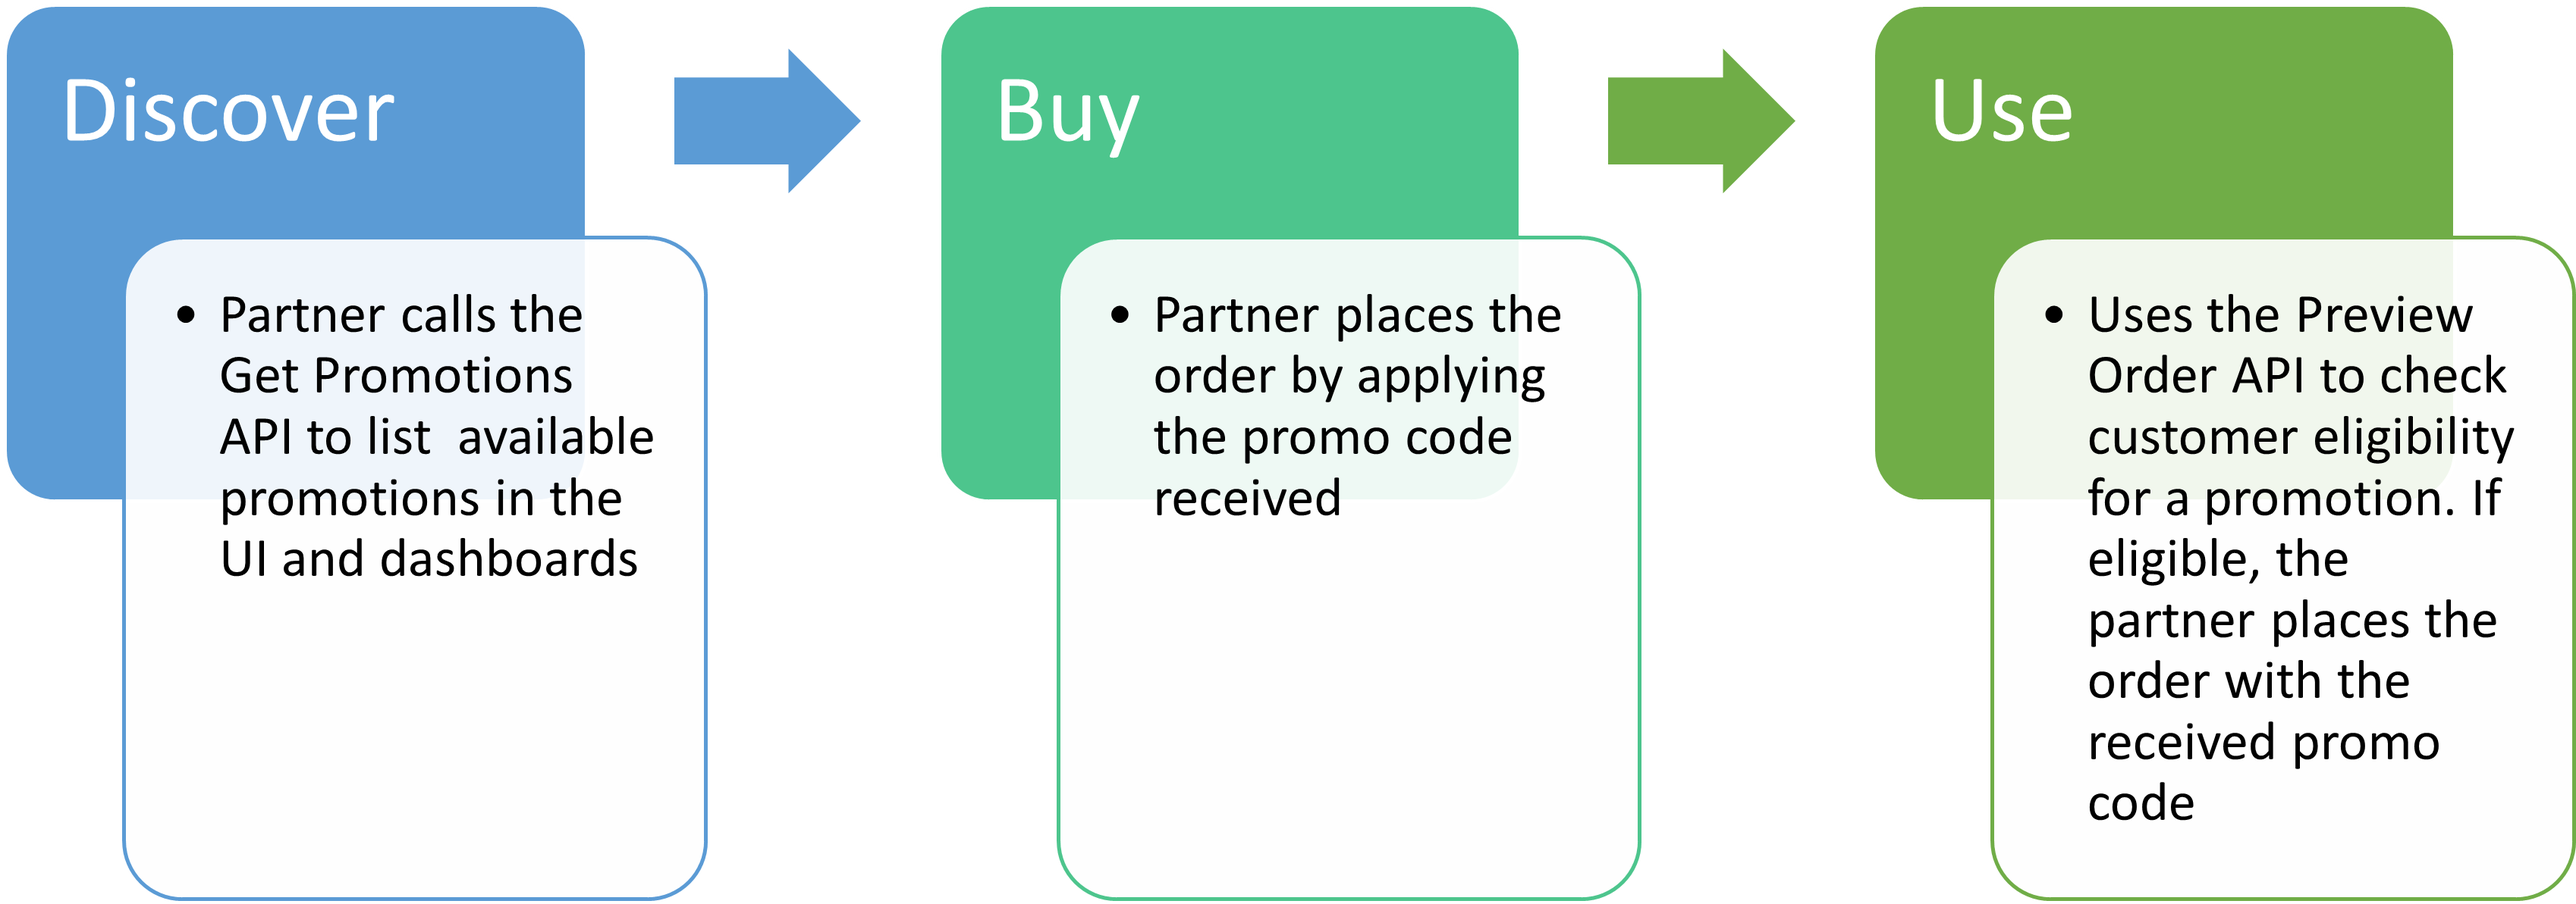
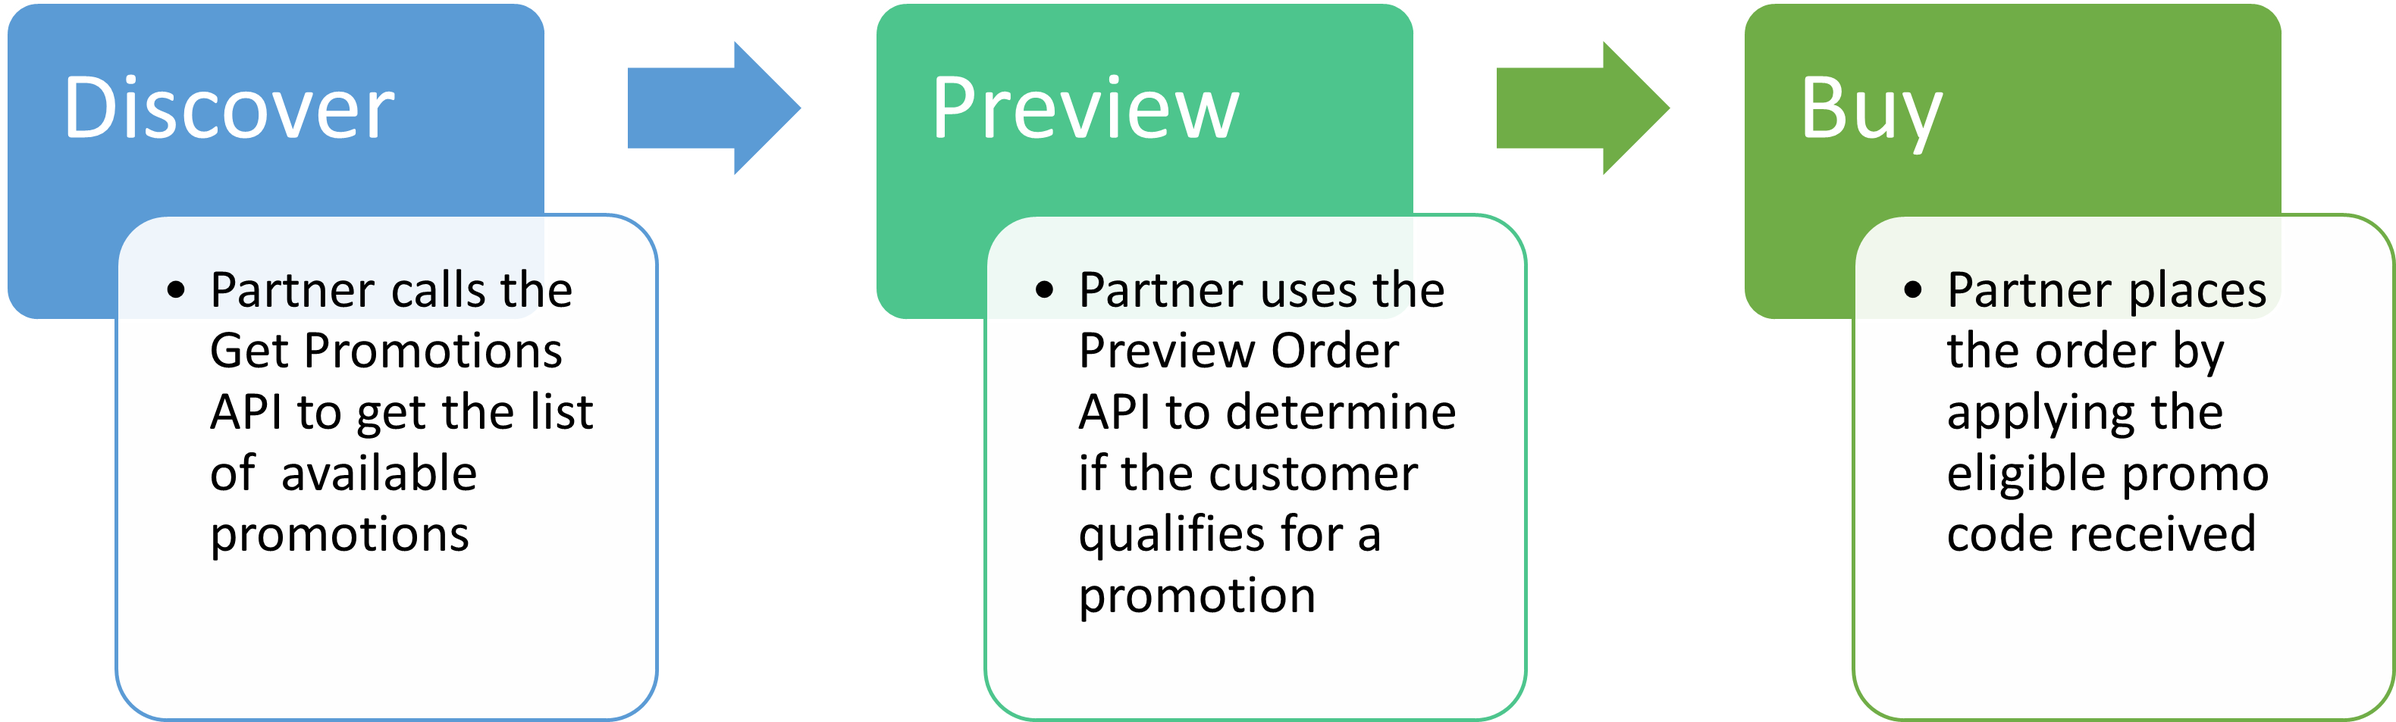
Flex promo updates based on Arch feedback.

diff --git a/src/pages/docs/flex_promo/apis.md b/src/pages/docs/flex_promo/apis.md
@@ -18,20 +18,20 @@ Use the `GET Promotions` API to fetch promotions applicable to a product:
 
 ### Request
 
-Sample Request URL: `GET <ENV>/v3/promotions?market-segment=COM&country=US&offer-ids=65322535CA04A12,86322535CA04A12&promo-code=BLACK_FRIDAY&start-date=2025-03-01&end-date=2025-03-31&limit=20&offset=0`
+Sample Request URL: `GET <ENV>/v3/promotions?market-segment=COM&country=US`
 
 ### Query parameters  
 
-**Note:** Request Query parameters such as Market segment and country will be validated against the Partner's contract data.
+**Note:** Request Query parameters such as Market segment and country will be validated against the Partner's contract data. You can also use other query parameters that are listed in the following table:
 
 | Parameter       | Type             | Mandatory | Description                                                                 | Range/Limits                                                                 |
 |-----------------|------------------|-----------|-----------------------------------------------------------------------------|------------------------------------------------------------------------------|
-| market-segment  | string           | Yes       | Filter promotions by market segment. Example: "COM", "EDU".                 |      3 characters                                                                        |
-| country         | string           | Yes       | Filter promotions by country using the ISO 3166-1 alpha-2 code. Example: "US", "IN". |         2 or 3 characters                                                                     |
+| market-segment  | string           | Yes       | Get promotions by market segment. Example: "COM", "EDU".                 |      3 characters                                                                        |
+| country         | string           | Yes       | Get promotions by country using the ISO 3166-1 alpha-2 code. Example: "US", "IN". |         2 or 3 characters                                                                     |
 | offer-ids       | array of strings | No        | Provide a comma-separated list of Offer IDs to retrieve applicable promotions. Example: 65322535CA04A12, 86322535CA04A12 |   Max: 40 characters                                                                           |
-| promo-code      | string           | No        | Filter promotions by code. Example: "DIWALI", "BLACK_FRIDAY"                |      Max: 40 characters                                                                        |
-| start-date      | string (date)    | No        | Specify the start date for searching for promotions. This date can be without timestamp or with timestamp in Zulu time format. For example, “2025-05-02" or "2025-05-02T22:49:54Z" |                                                                              |
-| end-date        | string (date)    | No        | Specify the end date for searching for promotions. This date can be without timestamp or with timestamp in Zulu time format. For example, “2025-05-02" or "2025-05-02T22:49:54Z" |                                                                              |
+| promo-code      | string           | No        | Filter promotions by promotion code. Example: "DIWALI", "BLACK_FRIDAY"                |      Max: 40 characters                                                                        |
+| start-date      | string (date)    | No        | Filter promotions created after a specified date. This date can be without timestamp or with timestamp in Zulu time format. For example, “2025-05-02" or "2025-05-02T22:49:54Z" |                                                                              |
+| end-date        | string (date)    | No        | Filter promotions that are created up to this date. This date can be without timestamp or with timestamp in Zulu time format. For example, “2025-05-02" or "2025-05-02T22:49:54Z" |                                                                              |
 | limit           | integer          |           | Define the number of items to be returned in the response. Default: 20, Max: 50. |                                                                              |
 | offset          | integer          |           | Set the start offset for the result items. Default: 0                        |                                                                              |
 
@@ -49,6 +49,8 @@ None.
 { 
   "limit": 20, 
   "offset": 0, 
+  "count": 1,
+  "totalCount": 1,
   "promotions": [ 
     { 
       "name": "Black Friday Promotion", 
@@ -111,8 +113,12 @@ None.
 
 | Parameter                       | Type             | Description                                                                 |
 |---------------------------------|------------------|-----------------------------------------------------------------------------|
-| name                            | String           | Name of the Promotion                                                       |
-| description                     | String           | Description of the Promotion                                                |
+| limit                            | String           |  Number of items to be included in the current response.                 |
+| offset                            | 	String |Offset applied for the current response.                                                 |
+| count                            | String           | The count of promotion entities included in the current response.                                                       |
+| totalCount                            | String           |   Total count of promotion entities, if no limit was applied.                                                   |
+| name                            | String           | Name of the Promotion.                                                       |
+| description                     | String           | Description of the Promotion. It also provides additional details about the eligibility criteria for the promotion. For example, "Exclusive 20% off for Teams customers of CC All Apps in US"                                               |
 | code                            | String           | The code that needs to be used in the order and will reflect in the invoice. It will be unique across promotions. |
 | endDate                         | String (Date)    | Final date when the Promotion can be used                                   |
 | startDate                       | String (Date)    | First date when the Promotion can be used                                   |
@@ -181,6 +187,8 @@ The following sample request shows how to apply a promotion code to a Create Ord
    ] 
  } 
  ```
+
+The `promotionCodes` parameter in the above request indicates the promotion codes applied to the Order.
 
 ### Response
 
@@ -299,7 +307,7 @@ None.
          ] 
     } 
    ],  "links": { // As existing response fields } 
- } 
+ },
 ```
 
 ### HTTP Status Codes

diff --git a/src/pages/docs/references/error_handling.md b/src/pages/docs/references/error_handling.md
@@ -84,6 +84,9 @@ Some error responses will include additionalDetails, an array of strings with mo
 |2138 | Invalid Deployment | Create Order |404|
 |2139| Deployment not allowed for this contract |Create Order | 400|
 |2140| Order contains order level currency and line-item level currency |Create Order | 400|
+| 2141       | Customer is not qualified for the promotion. <br /> Aadditional details: [ "Line Item: 1, Reason: MARKET_SEGMENT_MISMATCH" ]                                                                 |    Create Order <br /> Preview Order                  |    400              |
+| 2144       | Promo code cannot be applied in combination with other discounts. <br /> Aadditional details: [ "Line Item: 1, Reason: Promo code cannot be applied in combination with other discounts" ] |       Create Order <br /> Preview Order               |  400                |
+| 2145       | Promotional codes cannot be applied to non-base products.   <br /> Aadditional details: [ "Line Item: 1, Reason: Promotional codes cannot be applied to non-base products" ]                 |    Create Order <br /> Preview Order                  |    400              |
 |3115 | Invalid Customer or Subscription ID| Get Subscription Details, Update Subscription Auto-Renewal| 404|
 |3116 | renewalQuantity out of range |Update Subscription Auto-Renewal| 400|
 |3117 | currentQuantity out of range | | 400|
@@ -119,6 +122,8 @@ Some error responses will include additionalDetails, an array of strings with mo
 |5133| Order cancellation not allowed below MOQ quantity| |400 <br /> Description: When the customer is trying to cancel the MOQ offer quantity that results in pushing the remaining qty below the MOQ offer quantity.|
 |5134| Could not turn off Auto Renewal for MOQ offer| |400 <br /> Description: When the customer is trying to turn off autorenewal for an MOQ offer.|
 |5135| Invalid Discount Code|Create Order | 400|
+|5136 |INVALID_COUNTRY <br /> <br />Not allowed to fetch Recommendations for Country  `<code>` |Fetch Recommendations <br />Get Order <br />Preview Order |400 |
+|5137|INVALID_LANGUAGE <br /> <br />Not allowed to fetch Recommendations for language `<Code>` |Fetch Recommendations <br />Get Order <br />Preview Order | 400 |
 
 ## 2129 Ineligible Purchase REASON_CODE List
 
@@ -148,16 +153,23 @@ These REASON_CODE values are included in the `additionalDetails` array for 5117 
 |NO_TARGET_SKU| Customer has product(s) that are not valid VIPMP product(s)| Wait for products to be supported in VIPMP.|
 |UNBILLED_ORDER| Customer has unbilled order items| Customer must pay for all orders. If they have not received an invoice, then the customer needs to contact Adobe.|
 |UNPAID_INVOICE| Customer has open/unpaid invoice(s) |Customer must pay for open invoice(s).|
-|LINK_MEMBERSHIP_CHECK| Customer is part of linked membership |Wait for the Linked Membership transfer capability to be supported|
-|HAS_UNPROCESSED_ORDERS| There is some internal issue for the customer |Please reach out to support for assistance|
+|LINK_MEMBERSHIP_CHECK| Customer is part of linked membership |Wait for the Linked Membership transfer capability to be supported.|
+|HAS_UNPROCESSED_ORDERS| There is some internal issue for the customer |Reach out to support for assistance.|
 |NOT_A_FULL_RENEWAL_IN_RENEWAL_WINDOW| The customer is in the renewal window prior to their anniversary date, and they have partially renewed.| Customer must either renew all active licenses or wait until their anniversary date.|
-|LICENSE_WITHOUT_SALE_AQO_REFERENCED| There is some internal issue for the customer |Please reach out to support for assistance |
-|SRC_DST_OFFER_IDS_HAS_PA_MISMATCH| There is some internal issue for the customer |Please reach out to support for assistance|
-|3YC_LINKED_MEMBERSHIP | Customer is part of linked membership and has active 3YC. |Please reach out to support for assistance|
-|HVD_CUSTOMER| Customer is not eligible for transfer. |Please reach out to support for assistance|
-|INVALID_PRICE_LEVEL_LM_MIGRATION | Customer’s Price Level is greater than 04 and has Linked Membership. |Please reach out to support for assistance|
+|LICENSE_WITHOUT_SALE_AQO_REFERENCED| There is some internal issue for the customer |Reach out to support for assistance. |
+|SRC_DST_OFFER_IDS_HAS_PA_MISMATCH| There is some internal issue for the customer |Reach out to support for assistance.|
+|3YC_LINKED_MEMBERSHIP | Customer is part of linked membership and has active 3YC. |Reach out to support for assistance.|
+|HVD_CUSTOMER| Customer is not eligible for transfer. |Reach out to support for assistance.|
+|INVALID_PRICE_LEVEL_LM_MIGRATION | Customer’s Price Level is greater than 04 and has Linked Membership. |Reach out to support for assistance.|
 |LM_OWNER_NOT_MIGRATED | Group member is trying to migrate to VMP prior to Group Owner migration. |Wait for the Group Owner to migrate first|
-|NOT_A_WORLDWIDE_PURCHASER| Customer is WorldWide, but Parnter is not tagged as WorldWide. |Please reach out to support for assistance|
-|3YC_DISCOUNT_LEVEL_MISMATCH | Customer’s discount level is greater than the level determined by MCQ. |Please reach out to support for assistance|
-|HVD_CUSTOMER| Customer is not eligible for transfer. |Please reach out to support for assistance|
-|MINIMUM_HVD_QTY_NOT_MET| Customer is not eligible for transfer. |Please reach out to support for assistance|
+|NOT_A_WORLDWIDE_PURCHASER| Customer is WorldWide, but Parnter is not tagged as WorldWide. |Reach out to support for assistance.|
+|3YC_DISCOUNT_LEVEL_MISMATCH | Customer’s discount level is greater than the level determined by MCQ. |Reach out to support for assistance.|
+|HVD_CUSTOMER| Customer is not eligible for transfer. |Reach out to support for assistance.|
+|MINIMUM_HVD_QTY_NOT_MET| Customer is not eligible for transfer. |Reach out to support for assistance.|
+| INVALID_LM_MIGRATION_LEVEL     | Linked Member level is not equal to 01 - 04 or 06-09.                                     |Reach out to support for assistance. |
+| OWNER_MEMBER_COUNTRY_MISMATCH  | Member country in the Linked Membership (LM) is not same as that of the LM owner country. |Reach out to support for assistance. |
+| LGA_LM_MARKET_SEGMENT_MISMATCH | Customer market segment and Linked Membership market segment are not the same.            |Reach out to support for assistance. |
+| INVALID_LGA_MARKET_SEGMENT     | Linked Member Group Market Segment is not GOV.                                            |Reach out to support for assistance. |
+| NOT_LGA PARTNER                | Partner country is not US/CA.                                                             |Reach out to support for assistance. |
+| INSUFFICIENT_LGA_MOQ           | MOQ is < 100 and ( Considering FRL SKU's presence)                                        |Reach out to support for assistance |
+| LGA_QTY_LEVEL_MISMATCH         | MOQ does not fall between respective level cap quantities.                                |Reach out to support for assistance. |

diff --git a/src/pages/docs/order_management/get_order.md b/src/pages/docs/order_management/get_order.md
@@ -138,6 +138,52 @@ The request body is the same as mentioned in the [previous endpoint](#request-he
 }
 ```
 
+If `promotions` array indicates the promotions that are applied to the Order. For example:
+
+```json
+{ 
+   "referenceOrderId": "", 
+   "orderType": "NEW", 
+   "externalReferenceId": "759", 
+   "customerId": "9876543210", 
+   "orderId": "5120008001", 
+   "currencyCode": "USD", 
+   "creationDate": "2019-05-02T22:49:54Z", 
+   "status": "1000", 
+    
+"lineItems": [ 
+     { 
+       "extLineItemNumber": 1, 
+       "offerId": "80004567CA01A12", 
+       "quantity": 1, 
+       "status": "1002", 
+       "subscriptionId": "", 
+       "currencyCode": "USD", 
+       "promotions": [ 
+                  { 
+                      "code": "SUMMER_SALE_123", 
+                      "result": "SUCCESS", 
+                   } 
+         ] 
+    }, 
+     { 
+       "extLineItemNumber": 2, 
+       "offerId": "80004561CA02A12", 
+       "quantity": 11, 
+       "status": "1002", 
+       "subscriptionId": "", 
+       "currencyCode": "USD", 
+       "promotions": [ 
+                  { 
+                      "code": "WINTER_SALE_123", 
+                      "result": "SUCCESS", 
+                   } 
+         ] 
+    } 
+   ],  "links": { // As existing response fields } 
+ } 
+```
+
 ### HTTP status codes
 
 | Status code | Description                         |

diff --git a/src/pages/docs/flex_promo/index.md b/src/pages/docs/flex_promo/index.md
@@ -13,10 +13,6 @@ Key advantages of Flexible Promotions include:
 
 - Allows partners to activate discounts within days for timely seasonal promotions like Black Friday.
 
-**Targeted promotions for specific reseller tiers:**
-
-- Criteria-based options for exclusive discounts to high-value resellers.
-
 The following two types of discounts are available with flexible promotions:
 
 1. **Percentage Discount (% off Promo):** A percentage reduction is applied to the base price of the product.
@@ -52,7 +48,7 @@ These discounts are applied to an offer using a promotion code. Partners must us
 
 ## Eligibility criteria
 
-Flexible promotions are accessible to all VIP Marketplace customers, irrespective of their current discounts, including Linked Memberships or High-Volume Discounts. However, eligibility is determined by other factors, such as the customer's market segment and country.
+Flexible promotions are accessible to all VIP Marketplace customers, irrespective of their current volume discounts, including Linked Memberships. However, eligibility is determined by other factors, such as the customer's market segment and country.
 
 ## Partner integration process  
 

diff --git a/src/pages/docs/order_management/create_order.md b/src/pages/docs/order_management/create_order.md
@@ -15,6 +15,7 @@ Ensure that you are aware of the following before creating an offer details:
 - `currencyCode` should now be sent at the lineItem-level instead of order level.
   - For backwards compatability, `currencyCode` can still be sent at the order level.
 - The `discountCode` is applicable only to High Volume Discount customers who have migrated from VIP to VIP MP. You can use the discount code only if their discount level in VIP is between 17 and 22.
+- `promotionCodes` can be used in the request to apply Flexible Promotions for customers who meet the eligibility criteria. For additional details, see [Managing Flexible Promotions](../flex_promo/apis.md).
 
 ## Request header
 

diff --git a/src/pages/docs/customer_account/create_customer_account.md b/src/pages/docs/customer_account/create_customer_account.md
@@ -26,6 +26,7 @@ Ensure that you are aware of the following before creating a customer account:
 * Customers can be created with a specified market segment.
   * Reseller must be enabled for that market segment.
   * If no market segment is specified in the request, the customer becomes part of the commercial (COM) market segment by default.
+* The `benefits` array must include the `LARGE_GOVERNMENT_AGENCY` indicator for LGA customers.
 
 ## Request header
 

diff --git a/src/pages/docs/customer_account/get_customer_account.md b/src/pages/docs/customer_account/get_customer_account.md
@@ -76,6 +76,11 @@ None.
 }
 ```
 
+**Note:** The following details are displayed in the respose body of an LGA customer:
+
+- The `benefits` array shows `LARGE_GOVERNMENT_AGENCY` if the customer is an LGA.
+- The `linkedMembership` array shows `benefitTypes` and `country` fields.
+
 ### HTTP status codes
 
 | Status code | Description                                    |
